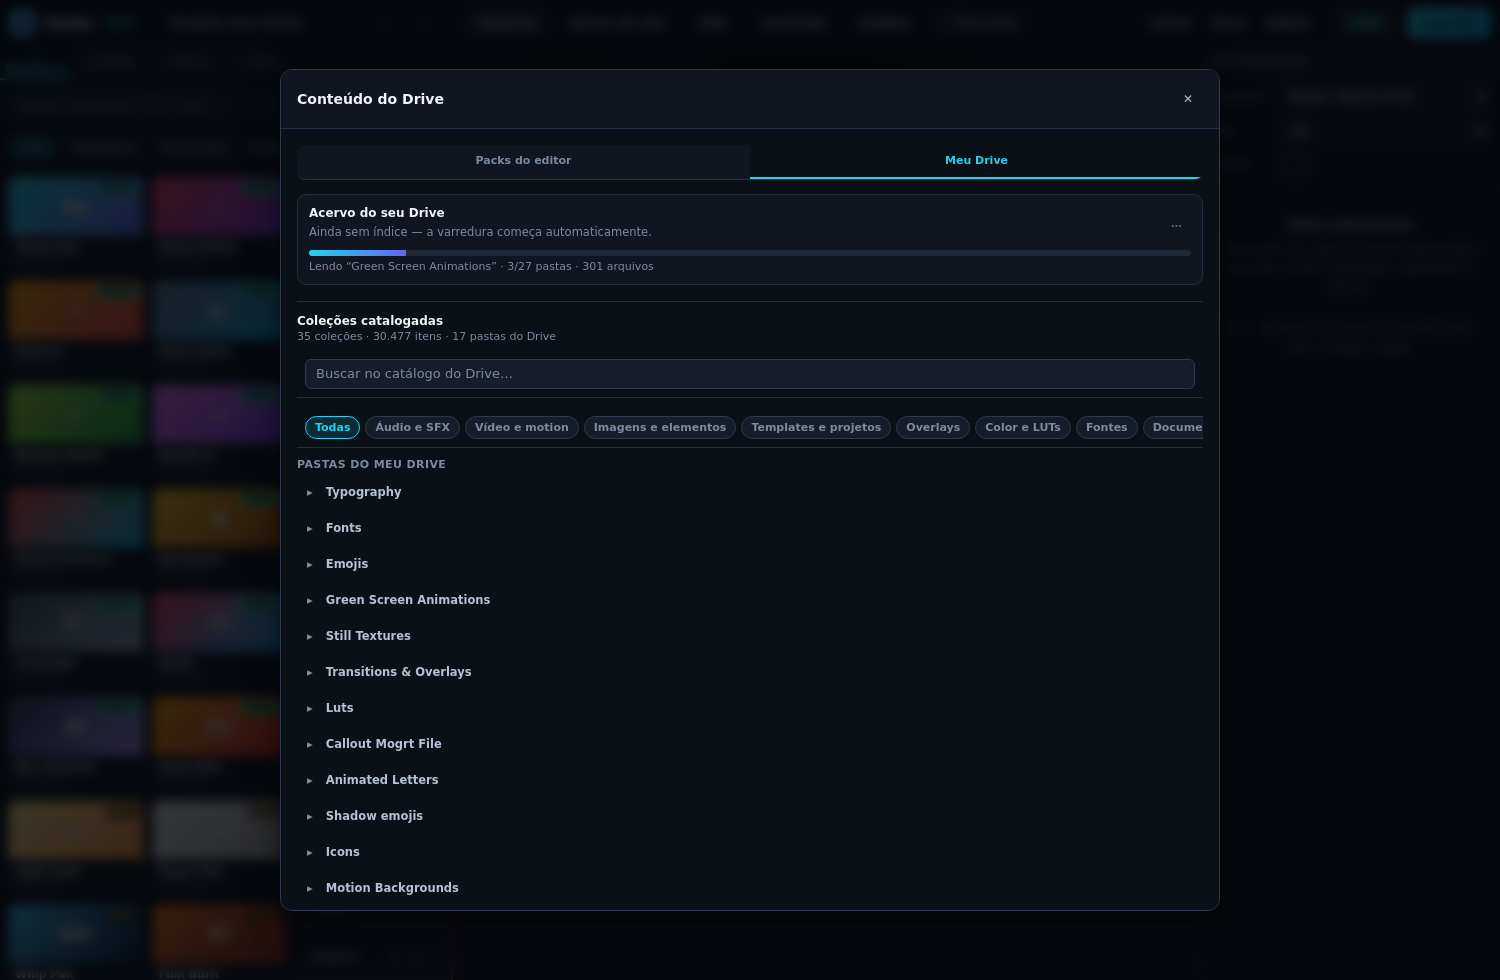
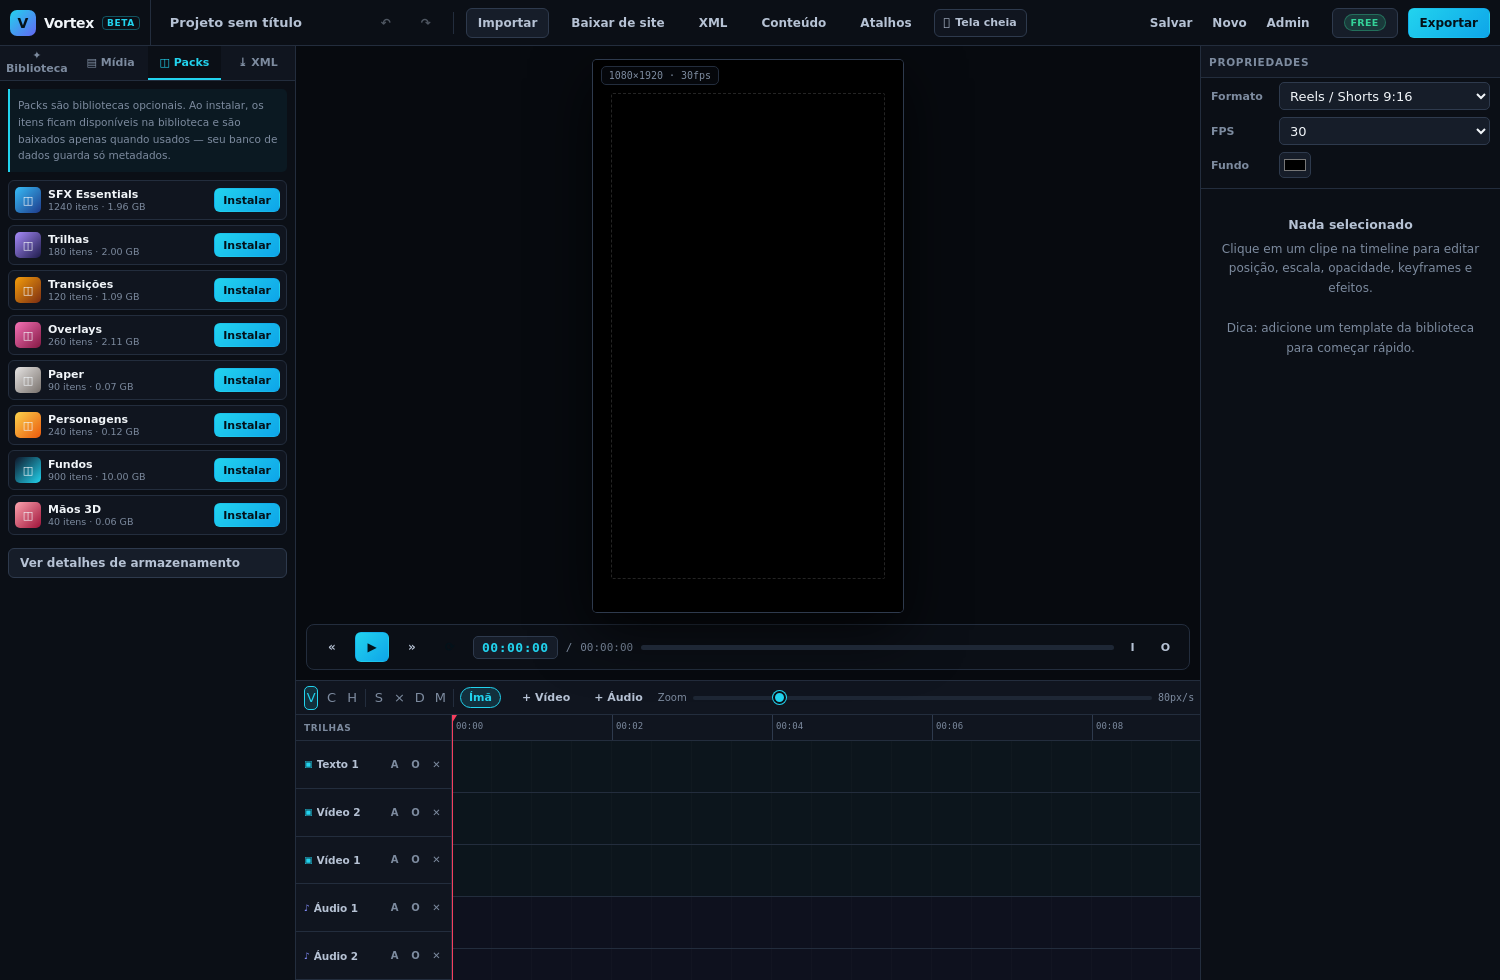
docs: URLs e credenciais atualizadas

diff --git a/docs/URLS.md b/docs/URLS.md
@@ -1,35 +1,28 @@
-# URLs do sistema
+# URLs do Vortex
 
-## 🟢 PRINCIPAL — Netlify (completo, com servidor)
-# https://vortex-editor.netlify.app
+| O que | Endereço |
+|---|---|
+| **Sistema (completo, com servidor)** | https://vortex-editor.netlify.app/ |
+| Espelho estático (GitHub Pages) | https://editmotiom-art.github.io/Vortex_editor/ |
+| Painel administrativo | https://vortex-editor.netlify.app/#admin |
+| Código-fonte | https://github.com/editmotiom-art/Vortex_editor |
 
-Tudo funcionando, incluindo as funções de servidor:
-- Baixar mídia de qualquer site ✅
-- Gerador de IA (quando a chave for configurada) ✅
+## Credenciais
+- **Admin:** `admin` / `vortex2026` → troque em `#admin` → *Acesso do admin*.
+- **Cliente:** crie a conta na própria tela de entrada (e-mail + senha, 6+ caracteres).
 
-### Painel administrativo
-https://vortex-editor.netlify.app/#admin
-`admin` / `vortex2026`
+## Funções de servidor ativas (só no Netlify)
+- `/.netlify/functions/drive?pasta=ID` — índice público das pastas do Drive
+- `/.netlify/functions/proxy?url=...` — baixa mídia bloqueada por CORS (até 200 MB)
+- `/.netlify/functions/minerar` — mídias de uma página da web ("Baixar de site")
+- `/.netlify/functions/ia` — geração de imagem/texto (precisa de `IA_API_KEY` no admin)
 
-## 🔵 Espelho — GitHub Pages
-https://editmotiom-art.github.io/Vortex_editor/
+No espelho do GitHub Pages o editor e os painéis funcionam; as funções de
+servidor (Drive, proxy, IA) só existem no endereço Netlify.
 
-Site estático (sem funções de servidor). Login, editor, biblioteca, XML e export funcionam;
-"Baixar de site" não funciona aqui.
-
-## 📦 Repositório
-https://github.com/editmotiom-art/Vortex_editor
-
-## ⚙ Painel Netlify
-https://app.netlify.com/projects/vortex-editor
-
----
-
-## Como atualizar o site depois de uma mudança
-
+## Deploy
 ```bash
-npm run build
-NETLIFY_AUTH_TOKEN=SEU_TOKEN npx netlify deploy --prod \
-  --dir=dist --functions=netlify/functions \
-  --site=db536c7f-e5f3-4a7c-aa67-526fef9dac9d
+cd vortex && npm run build
+NETLIFY_AUTH_TOKEN=<token> npx netlify deploy --prod --dir=dist \
+  --functions=netlify/functions --site=db536c7f-e5f3-4a7c-aa67-526fef9dac9d
 ```
